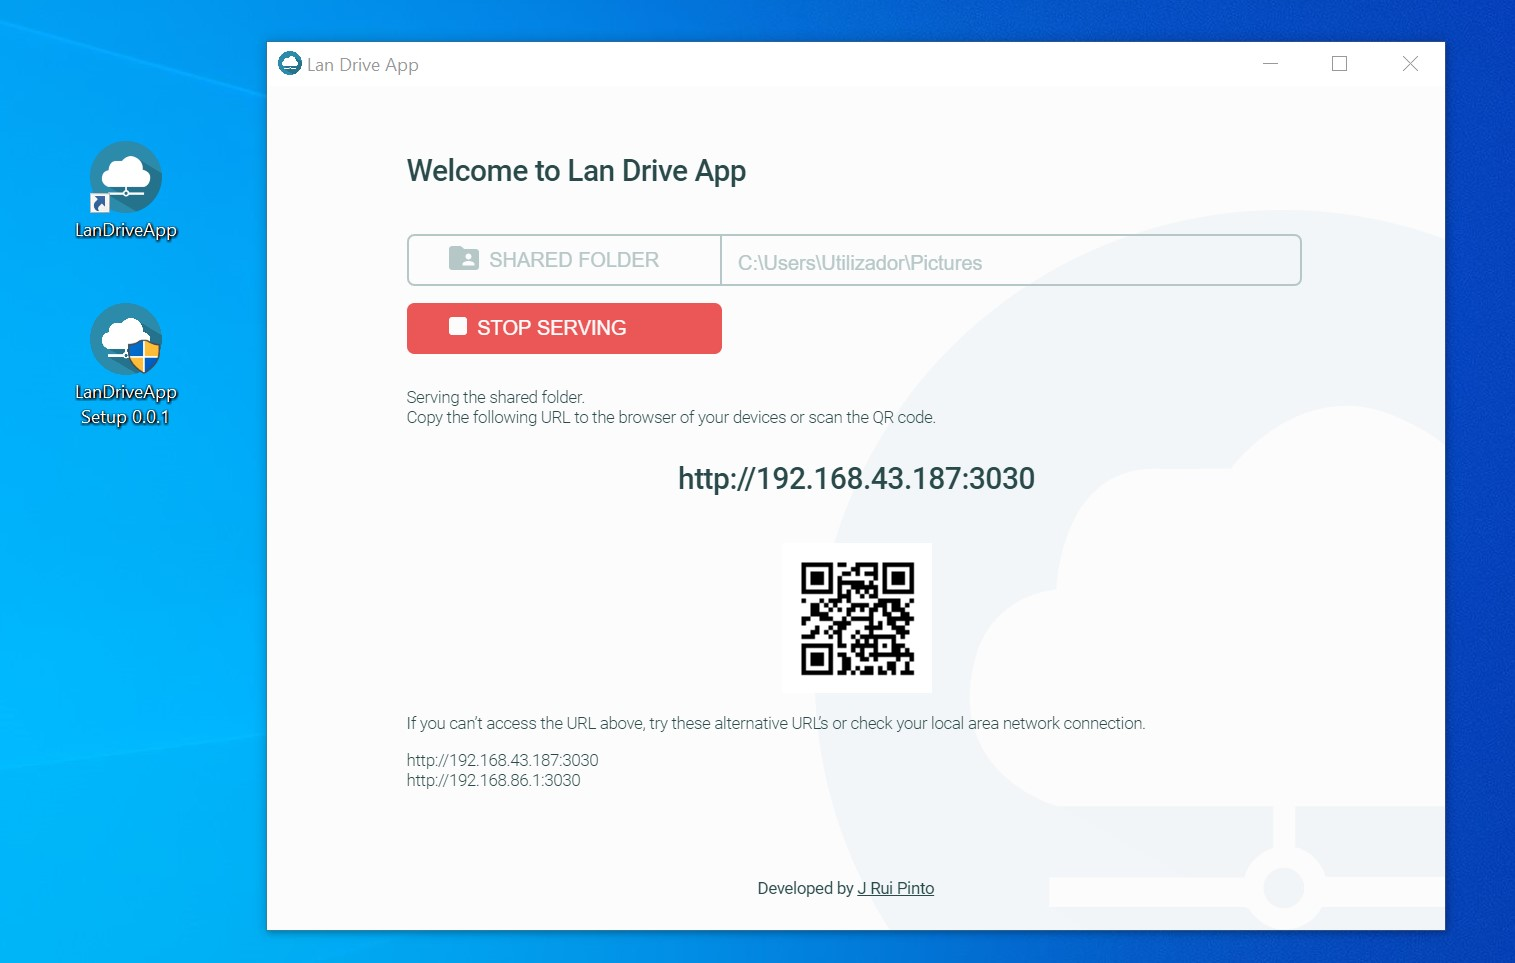
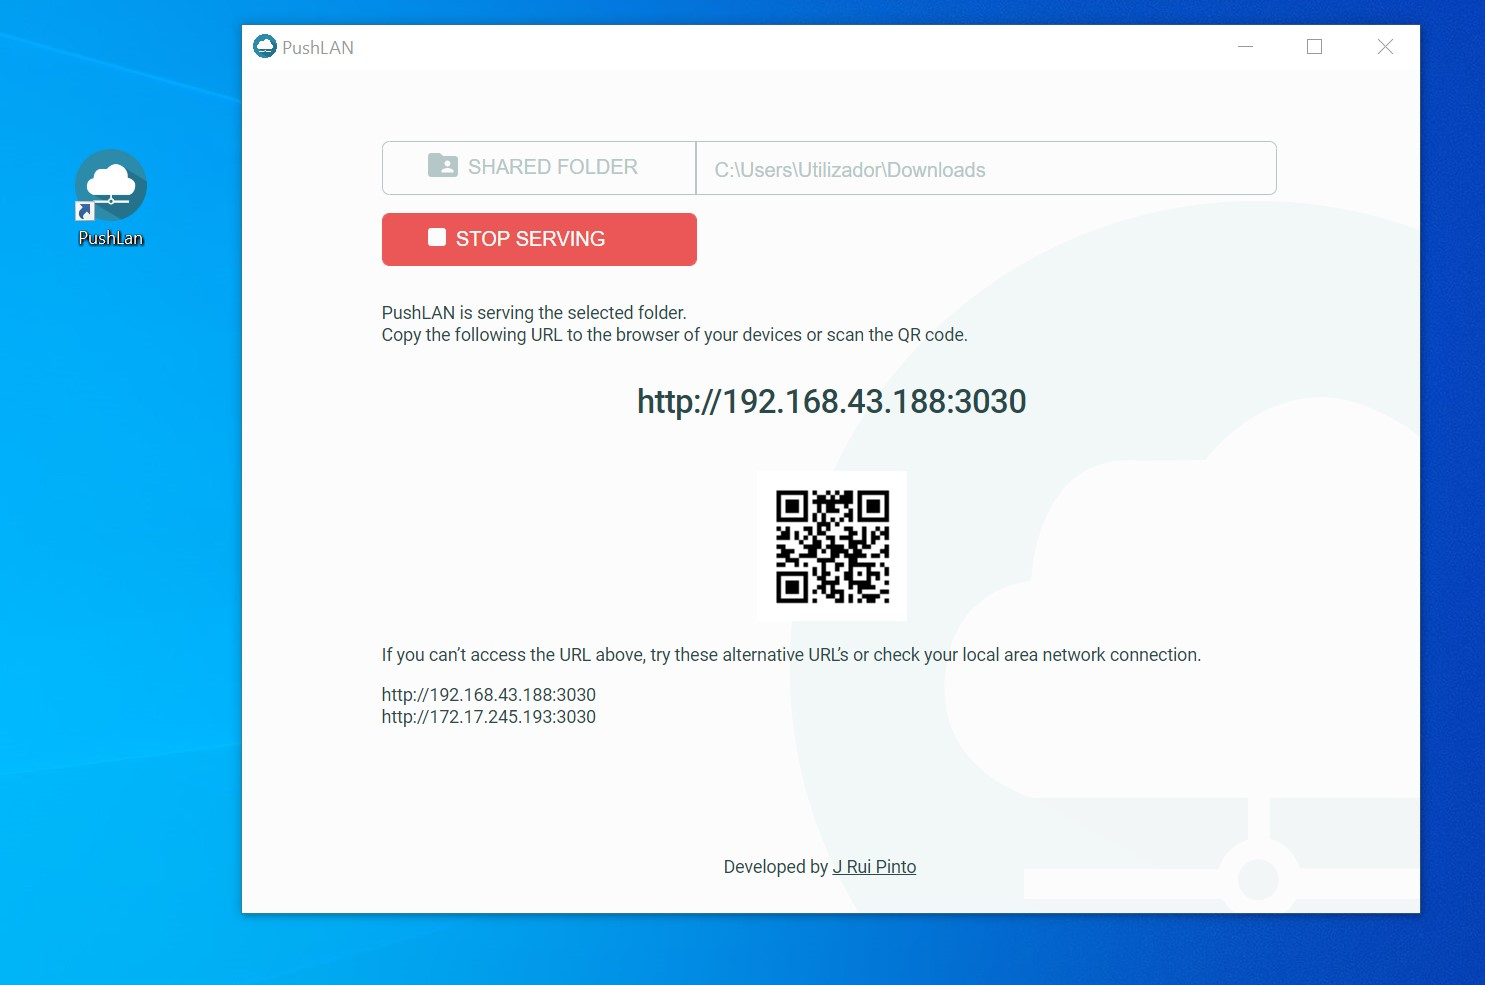
refactor: rebrand to PushLAN
due to the existence of other software with
similar functions and the same name I decided
to rename the project to PushLAN

diff --git a/packages/renderer/src/app/app.component.html b/packages/renderer/src/app/app.component.html
@@ -1,7 +1,4 @@
 <div class="container">
-
-  <h1>Welcome to Lan Drive App</h1>
-
   <div class="row">
     <div class="input-group">
       <button type="button" class="btn" id="btn-shared-folder" (click)="selectFolder()" [disabled]="webServerStarted">
@@ -9,35 +6,46 @@
         Shared folder
       </button>
       <input type="text" class="input-text" name="shared-folder" id="input-shared-folder" [(ngModel)]="folderToShare"
-        [disabled]="webServerStarted">
+        [disabled]="webServerStarted" />
     </div>
   </div>
 
   <div class="row">
-    <div *ngIf="!webServerStarted;else webServerNotStarted">
-      <button type="button" class="btn primary" (click)='startServing(folderToShare)' [disabled]="!folderToShare">
+    <div *ngIf="!webServerStarted; else webServerNotStarted">
+      <button type="button" class="btn primary" (click)="startServing(folderToShare)" [disabled]="!folderToShare">
         <app-start-icon></app-start-icon>
         Start serving
       </button>
     </div>
     <ng-template #webServerNotStarted>
-      <button type="button" class="btn danger" (click)='stopServing()'>
+      <button type="button" class="btn danger" (click)="stopServing()">
         <app-stop-icon></app-stop-icon>
         Stop serving
       </button>
     </ng-template>
   </div>
 
+  <div class="row" *ngIf="!webServerStarted">
+    <p>
+      Welcome to PushLAN! Select a folder and start the share on "start serving"
+      button.
+    </p>
+  </div>
+
   <div class="row" *ngIf="webServerStarted">
-    <p class="mt-2 mb-0">Serving the shared folder.</p>
-    <p class="mt-0 mb-2">Copy the following URL to the browser of your devices or scan the QR code.</p>
-    <h2 class="text-align-center">{{webServerURL}}</h2>
+    <p class="mt-2 mb-0">PushLAN is serving the selected folder.</p>
+    <p class="mt-0 mb-2">
+      Copy the following URL to the browser of your devices or scan the QR code.
+    </p>
+    <h2 class="text-align-center">{{ webServerURL }}</h2>
     <qrcode class="text-align-center" [qrdata]="QR" [width]="100" [errorCorrectionLevel]="'M'"></qrcode>
-    <p>If you can’t access the URL above, try these alternative URL’s or check your local area network connection.</p>
-    <p *ngFor="let url of alternativeURLs" class="mt-0 mb-0">{{url}}</p>
+    <p>
+      If you can’t access the URL above, try these alternative URL’s or check
+      your local area network connection.
+    </p>
+    <p *ngFor="let url of alternativeURLs" class="mt-0 mb-0">{{ url }}</p>
   </div>
 
   <app-developer-credit></app-developer-credit>
   <app-background-ilustration></app-background-ilustration>
-
 </div>

diff --git a/packages/renderer/src/styles.scss b/packages/renderer/src/styles.scss
@@ -17,7 +17,7 @@
 
 html {
   font-family: "Roboto", sans-serif;
-  font-size: 11px;
+  font-size: 12px;
   font-weight: 400;
   color: var(--primary-color);
   box-sizing: border-box;
@@ -45,7 +45,7 @@ h2 {
   padding-bottom: 1.5em;
 }
 p {
-  font-weight: 300;
+  font-weight: 400;
   letter-spacing: -0.01em;
 }
 a,

diff --git a/packages/renderer/src/index.html b/packages/renderer/src/index.html
@@ -2,7 +2,7 @@
 <html lang="en">
 <head>
   <meta charset="utf-8">
-  <title>Lan Drive App</title>
+  <title>PushLAN</title>
   <base href="/">
   <meta name="viewport" content="width=device-width, initial-scale=1">
   <link rel="icon" type="image/x-icon" href="favicon.ico">

diff --git a/packages/web-client/src/index.html b/packages/web-client/src/index.html
@@ -3,7 +3,7 @@
 
 <head>
   <meta charset="utf-8">
-  <title>Lan Drive App Client</title>
+  <title>PushLAN</title>
   <base href="/">
   <meta name="viewport" content="width=device-width, initial-scale=1">
   <link rel="icon" type="image/x-icon" href="favicon.ico">

diff --git a/packages/web-client/src/app/app.component.html b/packages/web-client/src/app/app.component.html
@@ -1,5 +1,5 @@
 <main class="container">
-  <h1>Lan Drive</h1>
+  <h1>PushLAN</h1>
   <app-address-bar></app-address-bar>
   <ul>
     <div class="files-container">

diff --git a/README.md b/README.md
@@ -1,16 +1,22 @@
 [![lerna](https://img.shields.io/badge/maintained%20with-lerna-cc00ff.svg)](https://lerna.js.org/)
 [![GitHub license](https://img.shields.io/github/license/Naereen/StrapDown.js.svg)](https://github.com/Naereen/StrapDown.js/blob/master/LICENSE)
 
-# Lan Drive
+# PushLAN
 
-Lan-drive replaces your pen-drive by letting you share a folder on your local area network without the hassles of configuring a shared folder on windows, samba server or any other technique.
+PushLAN helps you share a folder with other devices in LAN.
+
+This software is usefull when you want to share some files but a don't have a access
+to a usb flash drive, or when using a usb flash drive is not feasible.
+BTW transfering / sharing files with this software is usually way quicker than with
+a usb flash drive.
+If your devices have high speed storages (SSD, NVME, UFS, etc...) and high speed network (gigabit, 5GHz WLAN, etc) you may theorically reach 1Gbps of transfer speeds.
 
 ![Screenshot of the example](/screenshot.jpg?raw=true "Screenshot")
 
 ## Usage
 
-- Download the appropriate release of **LanDrive** for your Operative System.
-- Run **Lan Drive** in your desktop / laptop
+- Download the appropriate release of **pushlan** for your Operative System.
+- Run **PushLAN** in your desktop / laptop
 - Select **Shared Folder** and **Start Sharing**
 - Give network permissions if asked (windows)
 
@@ -21,21 +27,22 @@ PS: This project is in need of good tests because its was made in a hurry, so fe
 
 ### Building
 
-Using this build workflow, GitHub will build your app every time you push a commit.
+    npm run build
+    // or if you haven't installed any package since last build
+    npm run build:quick
 
 ### Releasing
 
-When you want to create a new release, follow these steps:
+GitHub will release PushLAN every time you push a commit to master with a new tag version.
+
+When you want to create a new release, follow these steps (if you're the owner or authorized by the owner):
 
     Update the version in your project's package.json file (e.g. 1.2.3)
-    Commit that change (git commit -am v1.2.3)
     Tag your commit (git tag v1.2.3). Make sure your tag name's format is v*.*.*. Your workflow will use this tag to detect when to create a release
     Push your changes to GitHub (git push && git push --tags)
 
-After building successfully, the action will publish your release artifacts. By default, a new release draft will be created on GitHub with download links for your app. If you want to change this behavior, have a look at the electron-builder docs.
-
 ## Credits
-App icon: [Lan Drive Icon from 'morningtrain'](https://www.iconfinder.com/morningtrain)
+App icon: [PushLAN Icon from 'morningtrain'](https://www.iconfinder.com/morningtrain)
 
 ## License
 [MIT](https://choosealicense.com/licenses/mit/)

diff --git a/packages/web-server/README.md b/packages/web-server/README.md
@@ -1,6 +1,6 @@
-# lan-drive
+# pushlan
 
-> Lan-drive replaces your pen-drive by letting your share a folder on your local area network without the hassles of configuring a shared folder on windows, samba server or any other technique.
+> pushlan replaces your pen-drive by letting your share a folder on your local area network without the hassles of configuring a shared folder on windows, samba server or any other technique.
 
 ## About
 
@@ -14,7 +14,7 @@ Getting up and running is as easy as 1, 2, 3.
 2. Install your dependencies
 
     ```
-    cd path/to/lan-drive
+    cd path/to/pushlan
     npm install
     ```
 
